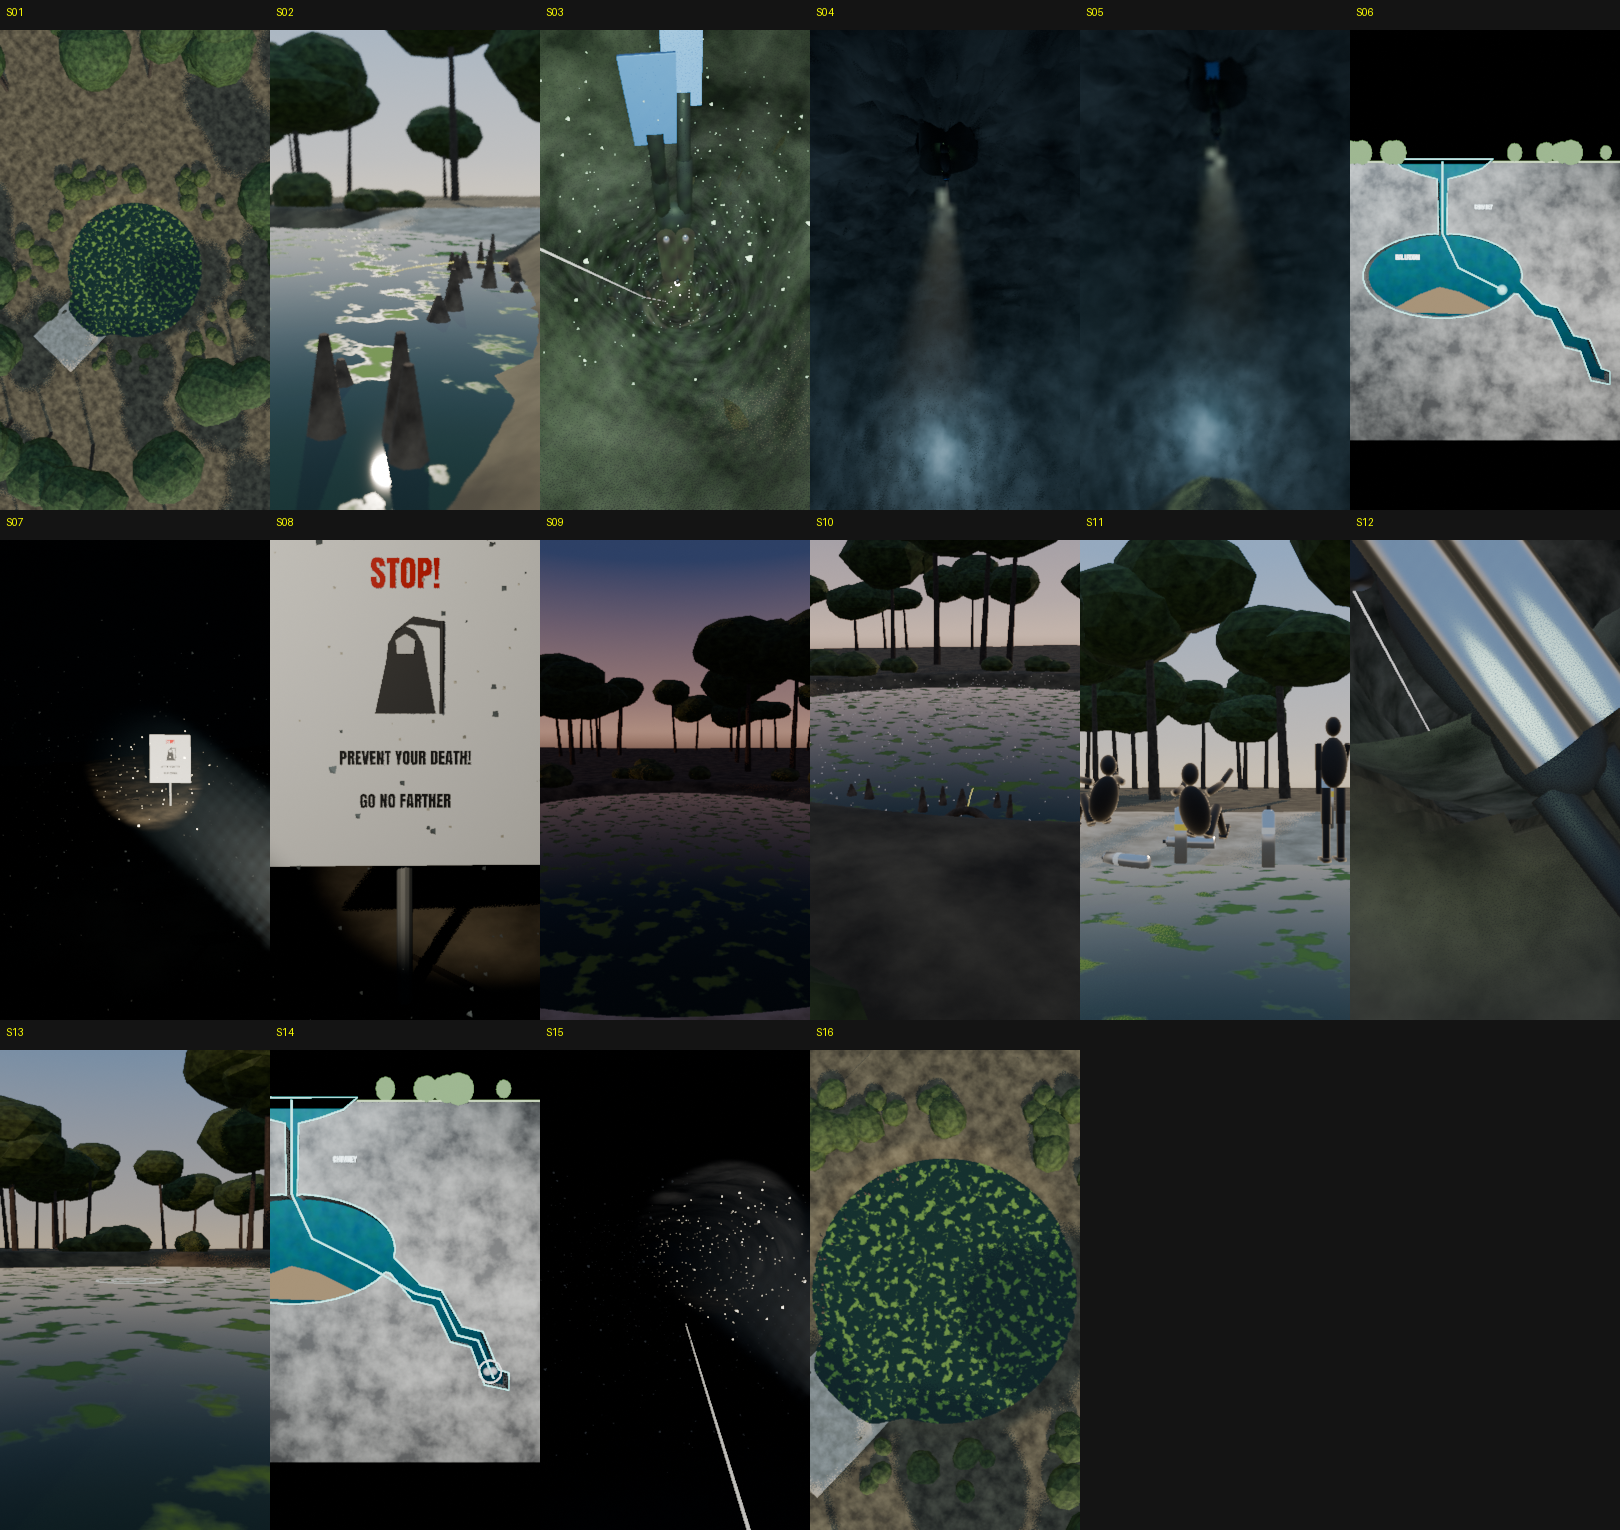
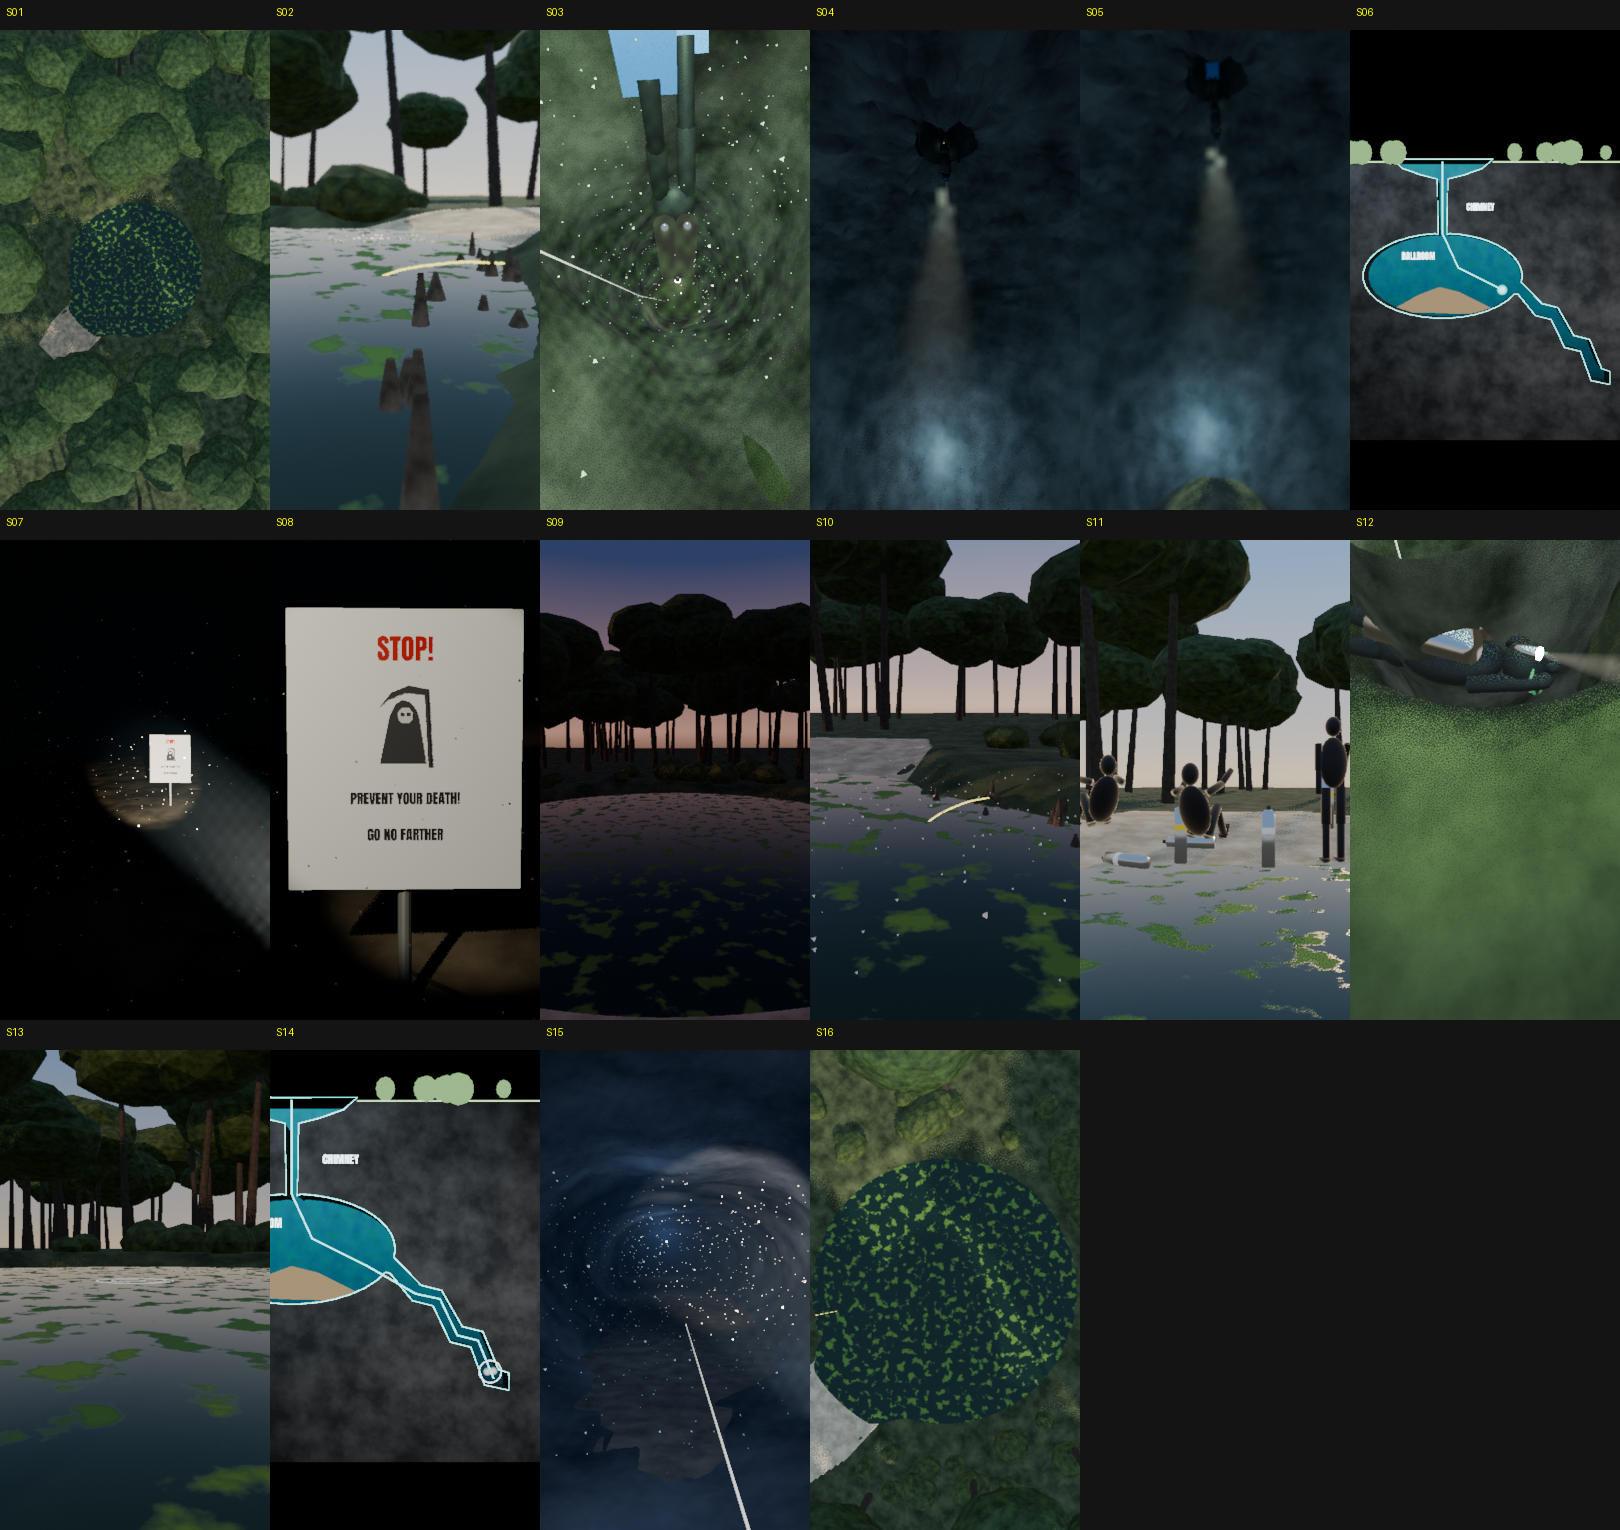
CAVE-05/06 animated + READY
Claude-Session: https://claude.ai/code/session_018PgShWLbZ6WQAiPFkp2HdE

diff --git a/YOUTUBE_ANIMATION_STUDIO/BLENDER_PROJECTS/CAVE-06/shots.py b/YOUTUBE_ANIMATION_STUDIO/BLENDER_PROJECTS/CAVE-06/shots.py
@@ -71,7 +71,7 @@ def _pond(L, n, tod="morning", trees=200, shaft=False, coarse=True, knees=True):
         C.heightfield(size=(110, 110), center=(0, 0, 0), res=0.9, fn=lambda x, y: fn(x, y) - 0.06, mat=gm,
                       name="ground", disp=(0.0, 0.0))
     C.heightfield(size=(24, 24), center=(0, 0, 0), res=0.16, fn=fn, mat=gm, name="bank", disp=(0.0, 0.0))
-    sand = L.mat_noise_surface("sand", (0.5, 0.4, 0.26), (0.82, 0.7, 0.5), scale=2.0, bump=0.3, voronoi=False)
+    sand = L.mat_noise_surface("sand", (0.3, 0.22, 0.13), (0.55, 0.44, 0.3), scale=2.0, bump=0.3, voronoi=False)
 
     def sand_z(x, y):
         k = C.sm((-y - 2.0) / 3.0) * C.sm((3.0 - abs(x) - 0.25 * max(0.0, -y - PR - 3.5)) / 1.2)
@@ -382,14 +382,15 @@ def S12(L, n):
     bpy.data.objects["pond"].hide_render = True
     sky = L.prim("plane", loc=(0, 0, WZ + 0.01), size=2 * PR + 4, name="underside")
     L.assign(sky, C.emis("underside_m", (0.45, 0.75, 0.4), 1.2))
-    sh, day = _chimney(L, n, light=500)
-    C.water(center=(0, 0, WZ - 0.8), size=(2 * PR, 2 * PR, 1.5), color=GREEN_W, density=0.08,
+    sh, day = _chimney(L, n, light=150)
+    bpy.data.objects["chimwater"].active_material.node_tree.nodes["Principled Volume"].inputs["Density"].default_value = 0.035
+    C.water(center=(0, 0, WZ - 0.8), size=(2 * PR, 2 * PR, 1.5), color=GREEN_W, density=0.025,
             absorption=(0.3, 0.15, 0.35), name="poolwater")
     c = C.diver("diverC", fins=(0.2, 0.75, 0.3), tanks="doubles", rebreather=False, light_energy=600, beam_len=2.0,
                 beam_strength=0.2)
     rc = c["root"]
     rc.rotation_euler = (0.35, 0, math.radians(35))
-    C.key_loc(rc, [(1, (0.75, 1.05, WZ - 2.1)), (n, (0.72, 1.0, WZ - 2.05))])
+    C.key_loc(rc, [(1, (0.85, 1.15, WZ - 2.0)), (n, (0.82, 1.1, WZ - 1.95))])
     L.anim_swim(c, n, kick_rate=0.35, amp=0.12)
     # the two deep divers: torches only (generic), shrinking down the shaft
     for k, (x, ph) in enumerate(((-0.3, 0), (0.25, 6))):
@@ -398,11 +399,11 @@ def S12(L, n):
         sp.parent = g
         C.key_loc(g, [(1, (x, 0.05 * k, WZ - 3.0 - 0.6 * k)), (n, (x * 0.6, 0.0, WZ - 13.0 - 0.8 * k))])
         em = g.active_material.node_tree.nodes["Emission"].inputs[1]
-        C.key_input(em, [(1, 10), (int(n * 0.7), 6), (n, 2.5)])
-        C.key_input(hem.inputs[1], [(1, 3.5), (int(n * 0.7), 2.0), (n, 0.8)])
+        C.key_input(em, [(1, 14), (int(n * 0.7), 9), (n, 4)])
+        C.key_input(hem.inputs[1], [(1, 5.0), (int(n * 0.7), 3.0), (n, 1.2)])
         C.key_energy(sp, [(1, 1500), (n, 400)])
     cam = C.camera(lens=24)
-    C.aim_cam(cam, n, [(1, (1.1, 2.4, WZ - 0.3), (0.0, 0.0, WZ - 9.0)), (n, (1.05, 2.3, WZ - 0.35), (0.0, 0.0, WZ - 10.0))],
+    C.aim_cam(cam, n, [(1, (0.4, 0.75, WZ - 0.3), (0.0, 0.0, WZ - 9.0)), (n, (0.38, 0.72, WZ - 0.35), (0.0, 0.0, WZ - 10.0))],
               shake=0.015, rot_shake=0.003)
     C.cam_fill(cam, energy=40, color=(0.6, 0.9, 0.6))
     L.bake_static()
@@ -535,8 +536,8 @@ def S08(L, n):
     C.key_energy(tl, [(1, 900), (fl - 1, 900), (fl, 120), (fl + 2, 650), (fl + 3, 200), (fl + 5, 900), (n, 900)])
     C.constant_keys(tl.data)
     cam = C.camera(lens=50)
-    C.aim_cam(cam, n, [(1, (sc.x + 0.05, sc.y - 2.2, sc.z + 0.05), (sc.x, sc.y, sc.z - 0.26)),
-                       (n, (sc.x + 0.03, sc.y - 1.9, sc.z + 0.04), (sc.x, sc.y, sc.z - 0.23))],
+    C.aim_cam(cam, n, [(1, (sc.x + 0.05, sc.y - 2.2, sc.z + 0.05), (sc.x, sc.y, sc.z - 0.1)),
+                       (n, (sc.x + 0.03, sc.y - 1.9, sc.z + 0.04), (sc.x, sc.y, sc.z - 0.08))],
               shake=0.006, rot_shake=0.002)
     C.cam_fill(cam, energy=6, color=(0.55, 0.7, 0.85))
     s = C.cloud((sc.x, sc.y - 0.6, sc.z), (1.6, 0.6, 1.2), count=150, radius=0.0015, color=(0.8, 0.75, 0.6), emit=0.04,
@@ -570,7 +571,9 @@ def S15(L, n):
     aim = _track(torch, (0, 0, 0), "aim")
     C.key_loc(aim, [(1, (-1.2, 4.0, -0.4)), (int(n * 0.4), (1.2, 5.5, 0.2)), (int(n * 0.75), (-0.6, 7.0, 0.5)),
                     (n, (0.3, 9.0, -0.8))])
-    C.cam_fill(cam, energy=90, color=(0.4, 0.55, 0.85))
+    C.cam_fill(cam, energy=300, color=(0.4, 0.55, 0.85))
+    for y in (3.0, 8.0, 13.0):
+        L.point((0.0, y, 0.4), energy=25, color=(0.35, 0.5, 0.8), radius=0.8, name="tunfill")
     L.bake_static()
 
 
@@ -619,8 +622,8 @@ def _eagle_section(L, name="xs"):
     C.text("CHIMNEY", (0.9, -0.45, -1.7), size=0.55, color=(0.75, 0.95, 1.0), strength=3.0, align="LEFT",
            name=name + "_t1")
     C.text("BALLROOM", (-0.9, -0.45, -3.55), size=0.55, color=(0.75, 0.95, 1.0), strength=3.0, name=name + "_t2")
-    L.area((-3, -6, 2), (math.radians(60), 0, math.radians(-25)), energy=2500, size=8, color=(0.7, 0.85, 1.0))
-    L.area((5, -6, -6), (math.radians(70), 0, math.radians(30)), energy=1500, size=8, color=(0.8, 0.85, 0.9))
+    L.area((-3, -6, 2), (math.radians(60), 0, math.radians(-25)), energy=700, size=8, color=(0.7, 0.85, 1.0))
+    L.area((5, -6, -6), (math.radians(70), 0, math.radians(30)), energy=450, size=8, color=(0.8, 0.85, 0.9))
     return xs
 
 

diff --git a/YOUTUBE_ANIMATION_STUDIO/QUALITY_CONTROL/CAVE-06/ANIMATION_NOTES.md b/YOUTUBE_ANIMATION_STUDIO/QUALITY_CONTROL/CAVE-06/ANIMATION_NOTES.md
@@ -1,0 +1,41 @@
+# CAVE-06 Animation Notes (Eagle's Nest sinkhole, Florida)
+
+Builders: `BLENDER_PROJECTS/CAVE-06/shots.py`, plus functions appended to `PIPELINE/blender/lib_cave.py` (no pre-existing function was changed):
+- `hooded_icon`, `warning_sign`, `florida_woods`, `pond_mat`.
+- `air_bell` gained an optional `hole_r` (default 0; CAVE-05 is unaffected).
+- `upright_head_kit` and `glow_disc` are shared with CAVE-05.
+
+Preview rounds: 2 full and 1 targeted (S01, S06, S08, S12, S14, S15), plus a single-frame timing check at 540 px (S12 5.3 s, S01 3.4 s, S04 5.9 s per frame).
+`render.json`: S04 at 4 samples (volumetric beam).
+
+No victims are depicted or named. The 2016 divers appear only as two torches going down (S12) and two dim grey dots (S14). Divers are generic faceless rigs (blue, green fins). The warning sign is a generic recreation with no agency name or logo.
+
+Sets:
+- **Pond exterior:** radius 7 m blackwater pond with duckweed (`pond_mat`), a bank heightfield with a rounded sand entry tongue, about 200 live-oak/cypress trees (trunk plus canopy blobs), palmetto understory, cypress knees. Time of day comes from `_sky`.
+- **Chimney:** narrow `shaft` (r about 1.25 m) under the pond with a green-lit volume.
+- **Ballroom:** `air_bell` 32 x 28 m with an open crown, the chimney above it, a debris mound, a green daylight spot, cool ambient points.
+- **Section:** a single `xsection` polygon (pond, chimney, ellipse Ballroom, stepped tunnel), a debris-mound fill, CHIMNEY/BALLROOM labels.
+
+| Shot | Built | Deviations / weaknesses |
+|---|---|---|
+| S01 | Top-down 28 mm drone over the pond, dense canopy, sand entry slope, morning sun; descending push with slight roll. | The sand slope reads pale. |
+| S02 | Low 35 mm dolly along the bank: cypress knees, duckweed, a speck skimming, a yellow dive line tied to an exposed root running into the water. Rack focus from near to line. | Trees are low-poly blobs. |
+| S03 | Top-down over the water, then through the surface (water hidden at frame 17), then following a head-down diver (blue fins) down the green-lit Chimney, torch below. | The fins are flat paddles. |
+| S04 | Ballroom: the diver under the chimney mouth, torch beam into nothing; pull-back and tilt down to the debris mound far below with a green daylight shaft. | Frame 1 is dark around the diver. 4 samples. |
+| S05 | Same Ballroom, heavily defocused, behind the map card. | Background only. |
+| S06 | Section: pond, Chimney, Ballroom (with debris mound), stepped tunnel; a cyan dot and trail travel the route; downward pan. | Schematic, not to scale (on-screen text). |
+| S07 | POV torch (camera-mounted spot plus beam) sweeps the debris slope with sticks and silt, stops dead on the sign on a pipe stake, push. | The sign is still smallish at the end of the shot. |
+| S08 | Sign close-up, 50 mm: STOP! (red), hooded skull-and-scythe pictogram, PREVENT YOUR DEATH! / GO NO FARTHER. One torch flicker at frame 40. Slow push. | None |
+| S09 | Dusk pond, tree silhouettes against an orange horizon, slow lateral drift (behind the timeline). | None |
+| S10 | Dawn pond over the water: a dive line tied to the root again, low mist, slow push. | None |
+| S11 | Afternoon, low sun behind: three faceless figures on the sand bank (one standing with a cylinder, two crouched working valves), cylinders lying around; camera low over the water, dolly-in. | The crouch pose is stiff. The figures are about 25% of frame height. |
+| S12 | Under the pond, looking straight down the Chimney: a hovering diver (green fins) in the foreground, two torch lights shrinking into the dark below. | **Weakest.** The foreground diver sits in the lower (caption) third. |
+| S13 | Locked-off over the still pond from the bank: bubble rings and pops grow sparse, then stop (last at frame 50). Sun, sky and colour fade toward evening. | The rings are subtle at preview size. |
+| S14 | Same section: route trail to the deep tunnel, a white marker ring, two dim grey dots fading in, then dimming. Slow push to the marker. | None |
+| S15 | Deep blue-black passage, guideline, hanging silt, a single camera-mounted torch sweeping and finding nothing, slow push. | The walls are only lightly readable. |
+| S16 | Starts underwater looking up at the bright surface (dark duckweed blotches, dive line), crosses the surface at frame 15, rises to S01's exact first-frame pose (shake ramps to 0) for the loop. | None |
+
+Script.json overlay fixes:
+- S05 "EVEREST OF CAVE DIVING" y 1420 → 250 (caption band and the map subtitle).
+- S06 "SCHEMATIC, NOT TO SCALE" y 1180 → 1080.
+- S08 and S14 label `REPORTED` → `EYEWITNESS CLAIM` (REPORTED is not an allowed label; these are single-source press/recovery accounts per FACTCHECK).

diff --git a/YOUTUBE_ANIMATION_STUDIO/PROJECT_TRACKER/STATUS.md b/YOUTUBE_ANIMATION_STUDIO/PROJECT_TRACKER/STATUS.md
@@ -1,6 +1,6 @@
 # STATUS (auto-generated from disk by update_tracker.py)
 
-Updated: 2026-11-27T14:57:11Z
+Updated: 2026-11-27T15:53:03Z
 
 ## Concept counts
 
@@ -16,10 +16,10 @@ Updated: 2026-11-27T14:57:11Z
 
 ## Pipeline status
 
-- ANIMATED - in render queue: 19
+- ANIMATED - in render queue: 21
 - CONCEPT: 72
 - QC PASSED: 1
-- SCRIPTED: 8
+- SCRIPTED: 6
 
 ## Videos in production
 
@@ -29,8 +29,8 @@ Updated: 2026-11-27T14:57:11Z
 | CAVE-02 | 13 Trapped Behind Kilometres of Flooded Cave | 79 | ANIMATED - in render queue |
 | CAVE-03 | Under the Ice, the Only Way Out Was Deeper | 76 | ANIMATED - in render queue |
 | CAVE-04 | Stuck Upside Down With No Way to Back Out | 75 | ANIMATED - in render queue |
-| CAVE-05 | 60 Hours in an Air Bubble Under Mallorca | 75 | SCRIPTED |
-| CAVE-06 | It Looks Like a Pond. It's Killed More Than 10 Divers. | 73 | SCRIPTED |
+| CAVE-05 | 60 Hours in an Air Bubble Under Mallorca | 75 | ANIMATED - in render queue |
+| CAVE-06 | It Looks Like a Pond. It's Killed More Than 10 Divers. | 73 | ANIMATED - in render queue |
 | CAVE-07 | The Greatest Cave Diver Ever Tried to Reach 1,000 ft | 73 | SCRIPTED |
 | SCUBA-01 | He Lived 60 Hours at the Bottom of the Sea | 84 | ANIMATED - in render queue |
 | SCUBA-02 | The Boat Left Without Them | 82 | ANIMATED - in render queue |
